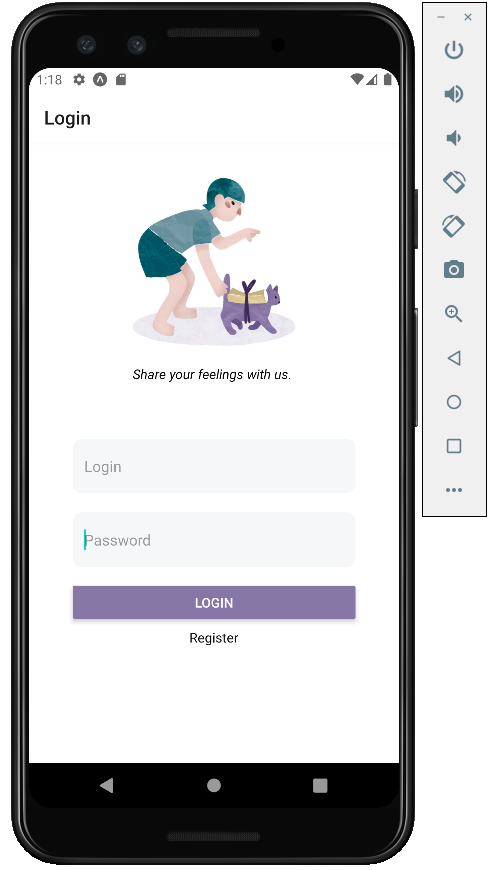
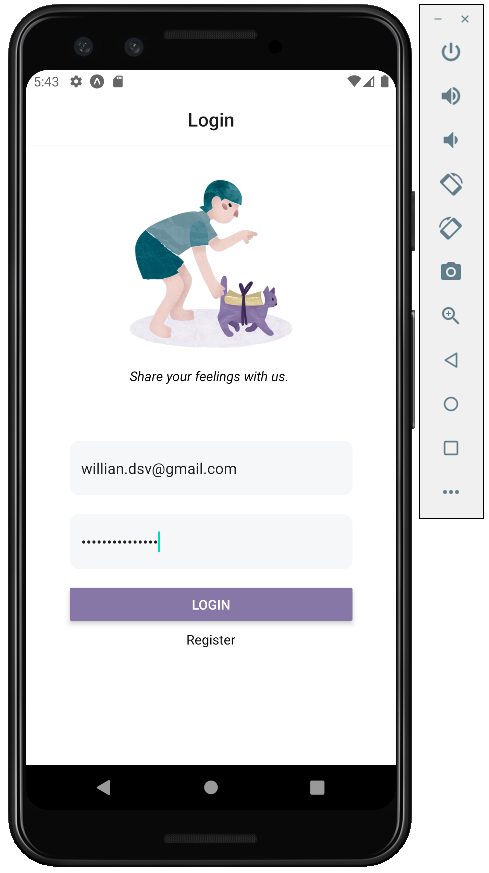
Secretum

diff --git a/App.js b/App.js
@@ -4,9 +4,9 @@ import { createStackNavigator } from "@react-navigation/stack";
 import { View, ActivityIndicator } from "react-native";
 import { getAuth, onAuthStateChanged } from "firebase/auth";
 import { auth } from "./config/firebase";
-import Login from "./Components/LoginScreen/LoginScreen";
-import Signup from "./Components/RegisterScreen/RegisterScreen";
-import Chat from "./Components/ChatScreen/ChatScreen";
+import Login from "./components/LoginScreen/LoginScreen";
+import Signup from "./components/RegisterScreen/RegisterScreen";
+import Chat from "./components/ChatScreen/ChatScreen";
 import "react-native-gesture-handler";
 
 const Stack = createStackNavigator();
@@ -32,7 +32,7 @@ function ChatStack() {
 
 function AuthStack() {
   return (
-    <Stack.Navigator>
+    <Stack.Navigator screenOptions={{ headerTitleAlign: "center" }}>
       <Stack.Screen name="Login" component={Login} />
       <Stack.Screen name="Signup" component={Signup} />
     </Stack.Navigator>
